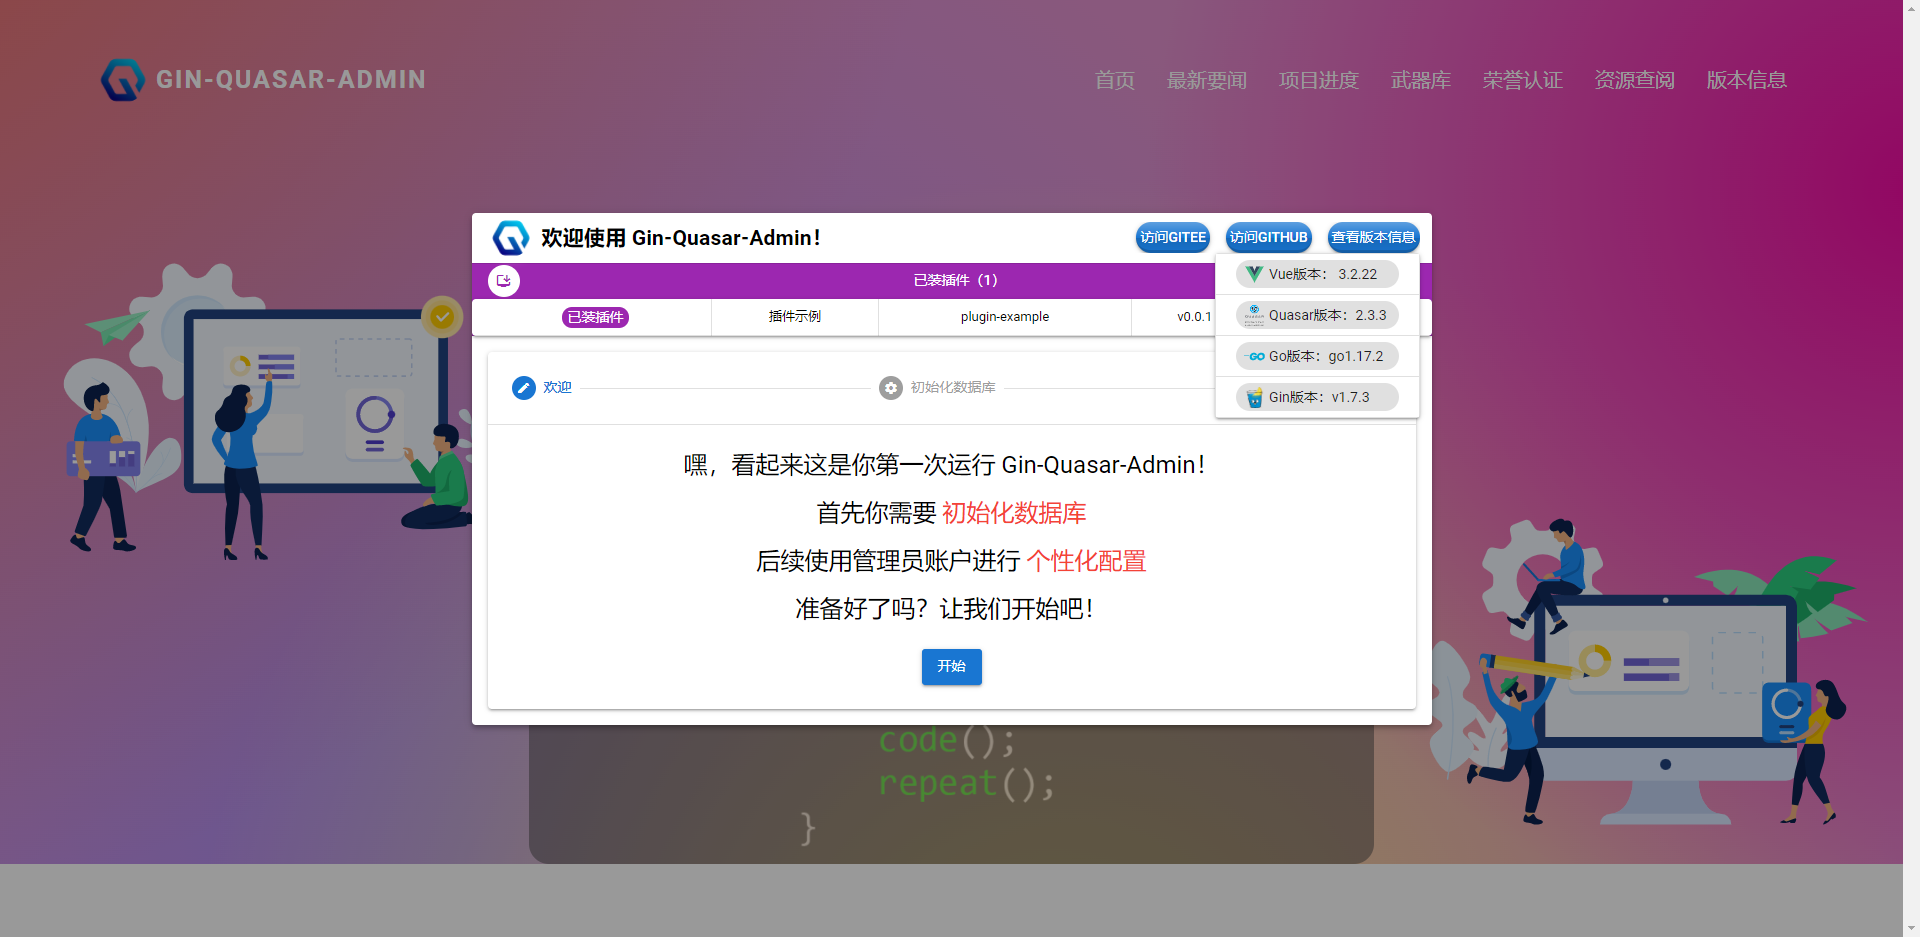
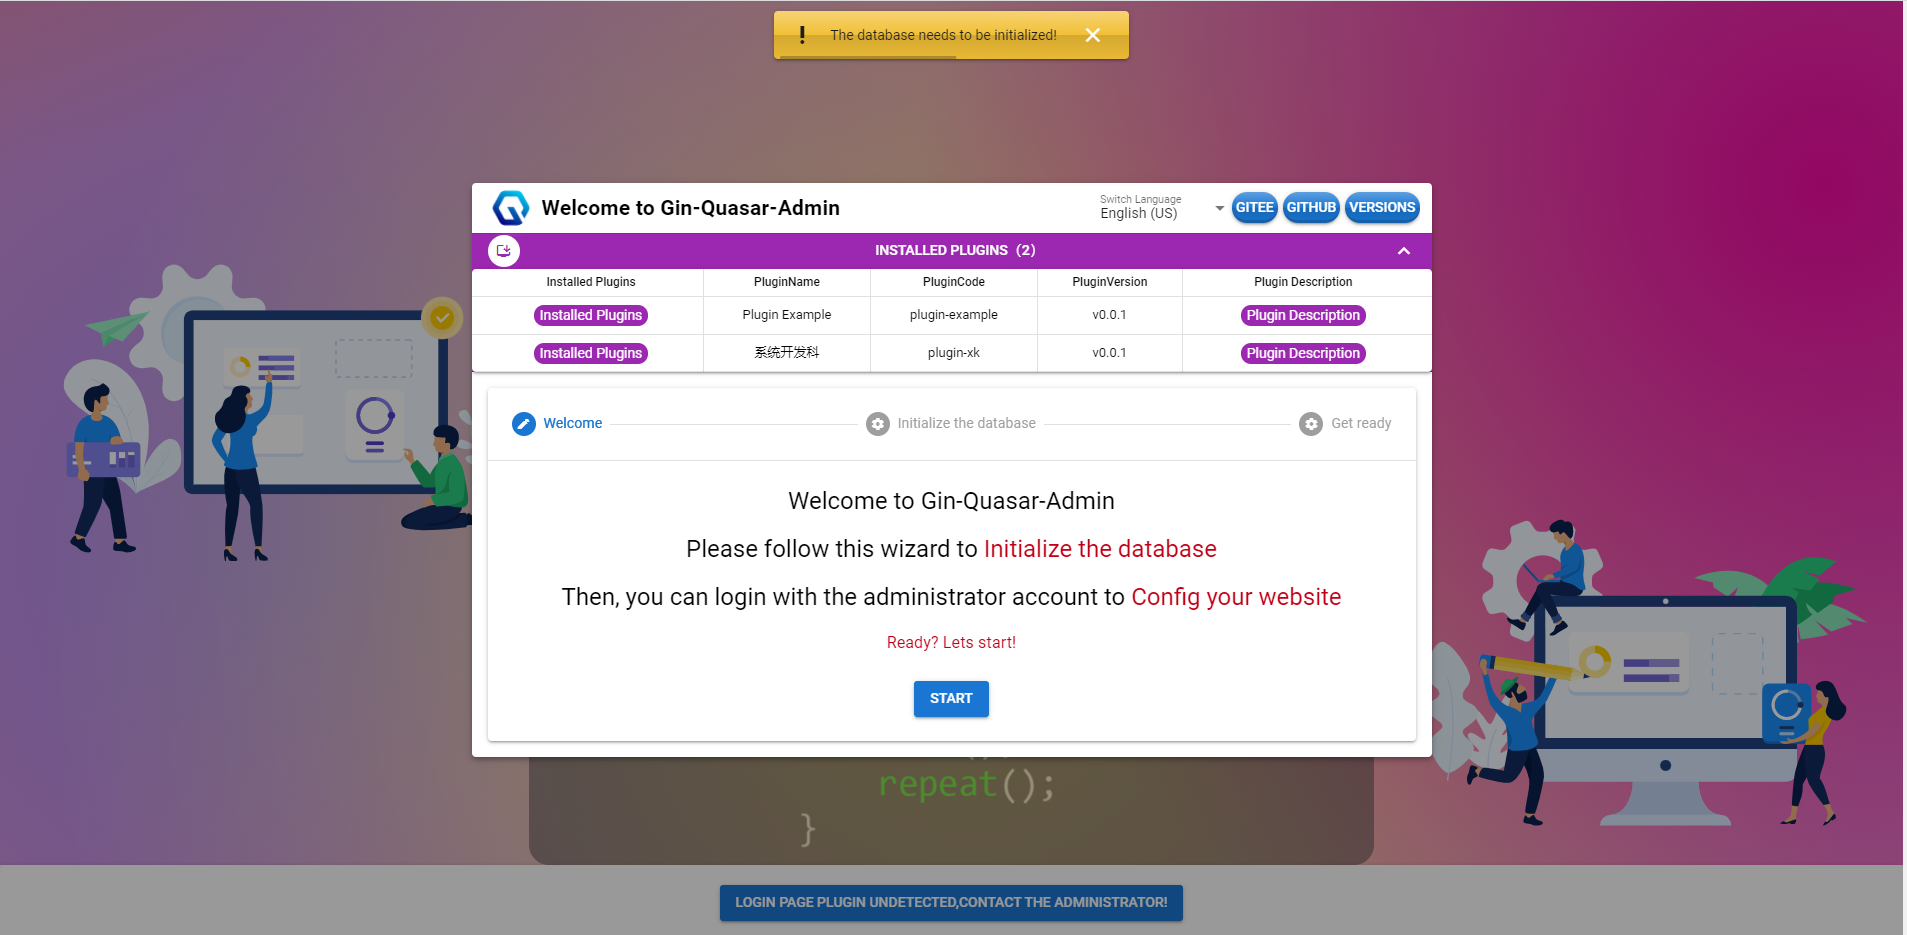
i18n in axios

Changed region(s): [[0.0, 0.0, 1.0, 1.0], [0.4022, 0.0, 0.9282, 0.093]]

diff --git a/GQA-FRONTEND/src/boot/axios.js b/GQA-FRONTEND/src/boot/axios.js
@@ -1,7 +1,8 @@
 import { boot } from 'quasar/wrappers'
 import axios from 'axios'
 import { Notify, Dialog } from 'quasar'
-// import { GetToken } from 'src/utils/cookies'
+import { createI18n } from 'vue-i18n'
+import messages from 'src/i18n'
 
 // Be careful when using SSR for cross-request state pollution
 // due to creating a Singleton instance here;
@@ -18,6 +19,13 @@ const api = axios.create({
 
 
 export default boot(({ app, router, store }) => {
+    const i18n = createI18n({
+        locale: store.getters['user/language'],
+        fallbackLocale: 'zh-CN',
+        messages,
+        silentTranslationWarn: true,
+        silentFallbackWarn: true
+    })
     // 请求拦截
     api.interceptors.request.use(res => {
         const token = store.getters['user/token']
@@ -44,13 +52,13 @@ export default boot(({ app, router, store }) => {
                 case 0:
                     if (responseData.data && responseData.data.reload) {
                         Dialog.create({
-                            title: this.$t('AxiosCantIdentifyTitle'),
-                            message: response.data.message || this.$t('AxiosCantIdentifyMessage'),
+                            title: i18n.global.t('AxiosCantIdentifyTitle'),
+                            message: response.data.message || i18n.global.t('AxiosCantIdentifyMessage'),
                             persistent: true,
                             ok: {
                                 push: true,
                                 color: 'negative',
-                                label: this.$t('AxiosCantIdentifyOkLabel')
+                                label: i18n.global.t('AxiosCantIdentifyOkLabel')
                             },
                         }).onOk(() => {
                             store.dispatch('user/HandleLogout')
@@ -59,7 +67,7 @@ export default boot(({ app, router, store }) => {
                     } else {
                         Notify.create({
                             type: 'negative',
-                            message: response.data.message || this.$t('AxiosErrorOperation'),
+                            message: response.data.message || i18n.global.t('AxiosErrorOperation'),
                         })
                         return response.data
                     }
@@ -71,13 +79,13 @@ export default boot(({ app, router, store }) => {
         // 500的情况
         if (error + '' === 'Error: Request failed with status code 500') {
             Dialog.create({
-                title: this.$t('AxiosErrorAbnormalTitle'),
-                message: this.$t('AxiosErrorAbnormalMessage'),
+                title: i18n.global.t('AxiosErrorAbnormalTitle'),
+                message: i18n.global.t('AxiosErrorAbnormalMessage'),
                 persistent: true,
                 ok: {
                     push: true,
                     color: 'negative',
-                    label: this.$t('AxiosErrorAbnormalOkLabel')
+                    label: i18n.global.t('AxiosErrorAbnormalOkLabel')
                 },
             }).onOk(() => {
                 store.dispatch('user/HandleLogout')
@@ -88,7 +96,7 @@ export default boot(({ app, router, store }) => {
         if (error + '' === 'Error: timeout of 40000ms exceeded') {
             Notify.create({
                 type: 'negative',
-                message: this.$t('AxiosErrorTimeout')
+                message: i18n.global.t('AxiosErrorTimeout')
             })
         }
         // 网络错误情况，比如后台没有对应的接口
@@ -98,7 +106,7 @@ export default boot(({ app, router, store }) => {
             console.log('请求地址不存在 [' + error.response.request.responseURL + ']')
             Notify.create({
                 type: 'negative',
-                message: this.$t('AxiosErrorNoNetwork', { error: error.response.request.responseURL }),
+                message: i18n.global.t('AxiosErrorNoNetwork', { error: error.response.request.responseURL }),
             })
         }
         return Promise.reject(error)

diff --git a/GQA-FRONTEND/src/components/GqaPluginList/index.vue b/GQA-FRONTEND/src/components/GqaPluginList/index.vue
@@ -59,26 +59,26 @@ export default {
         rows() {
             return this.$q.localStorage.getItem('gqa-pluginList')
         },
-    },
-    data() {
-        return {
-            columns: this.showChoose
-                ? [
-                      { name: 'first', align: 'center', label: this.$t('InstalledPlugins'), field: 'first' },
-                      { name: 'PluginName', align: 'center', label: this.$t('PluginName'), field: 'PluginName' },
-                      { name: 'PluginCode', align: 'center', label: this.$t('PluginCode'), field: 'PluginCode' },
-                      { name: 'PluginVersion', align: 'center', label: this.$t('PluginVersion'), field: 'PluginVersion' },
-                      { name: 'remark', align: 'center', label: this.$t('PluginDescription'), field: 'remark' },
-                      { name: 'actions', align: 'center', label: this.$t('PluginChoose'), field: 'actions' },
-                  ]
-                : [
-                      { name: 'first', align: 'center', label: this.$t('InstalledPlugins'), field: 'first' },
-                      { name: 'PluginName', align: 'center', label: this.$t('PluginName'), field: 'PluginName' },
-                      { name: 'PluginCode', align: 'center', label: this.$t('PluginCode'), field: 'PluginCode' },
-                      { name: 'PluginVersion', align: 'center', label: this.$t('PluginVersion'), field: 'PluginVersion' },
-                      { name: 'remark', align: 'center', label: this.$t('PluginDescription'), field: 'remark' },
-                  ],
-        }
+        columns() {
+            if (this.showChoose) {
+                return [
+                    { name: 'first', align: 'center', label: this.$t('InstalledPlugins'), field: 'first' },
+                    { name: 'PluginName', align: 'center', label: this.$t('PluginName'), field: 'PluginName' },
+                    { name: 'PluginCode', align: 'center', label: this.$t('PluginCode'), field: 'PluginCode' },
+                    { name: 'PluginVersion', align: 'center', label: this.$t('PluginVersion'), field: 'PluginVersion' },
+                    { name: 'remark', align: 'center', label: this.$t('PluginDescription'), field: 'remark' },
+                    { name: 'actions', align: 'center', label: this.$t('PluginChoose'), field: 'actions' },
+                ]
+            } else {
+                return [
+                    { name: 'first', align: 'center', label: this.$t('InstalledPlugins'), field: 'first' },
+                    { name: 'PluginName', align: 'center', label: this.$t('PluginName'), field: 'PluginName' },
+                    { name: 'PluginCode', align: 'center', label: this.$t('PluginCode'), field: 'PluginCode' },
+                    { name: 'PluginVersion', align: 'center', label: this.$t('PluginVersion'), field: 'PluginVersion' },
+                    { name: 'remark', align: 'center', label: this.$t('PluginDescription'), field: 'remark' },
+                ]
+            }
+        },
     },
     methods: {
         choosePluginLoginLayout(code) {

diff --git a/GQA-FRONTEND/src/i18n/en-US/index.js b/GQA-FRONTEND/src/i18n/en-US/index.js
@@ -23,8 +23,10 @@ export default {
     New: 'New',
     Old: 'Old',
     SwitchLanguage: 'Switch Language',
+    DbNeedInit: 'The database needs to be initialized!',
+    DbInitSuccess: 'System initialization succeeded. Please login!',
     // Base
-    Welcome: 'Welcome,',
+    Welcome: 'Welcome',
     WelcomeTo: 'Welcome to',
     Username: 'Username',
     Password: 'Password',
@@ -124,12 +126,12 @@ export default {
     LoginLayoutWizardInitDBFormPasswordRule: 'Please enter the database password',
     LoginLayoutWizardInitDBFormSchema: 'Databae name',
     LoginLayoutWizardInitDBFormSchemaRule: 'Please enter the Database name',
-    LoginLayoutWizardInitDBSummaryDBUser: 'Database user:',
+    LoginLayoutWizardInitDBSummaryDBUser: 'Database User:',
     LoginLayoutWizardInitDBSummaryDBPassword: 'Password:',
     LoginLayoutWizardInitDBSummaryDBPasswordSave: 'Will be stored in the backend configuration',
-    LoginLayoutWizardInitDBSummaryDBHost: 'The system will build for you on Host:',
-    LoginLayoutWizardInitDBSummaryDBType: 'the',
-    LoginLayoutWizardInitDBSummaryDBName: 'Database: ',
+    LoginLayoutWizardInitDBSummaryDBHost: 'The system will build: Host:',
+    LoginLayoutWizardInitDBSummaryDBType: 'Type:',
+    LoginLayoutWizardInitDBSummaryDBName: 'Database:',
     LoginLayoutWizardInitDBAfterText1: 'The default administrator account of the website is admin / 123456. Please modify it as soon as possible',
     LoginLayoutWizardInitDBAfterText2: 'The selected plugin does not support the login page, please contact the administrator!',
     // Login

diff --git a/GQA-FRONTEND/src/layouts/LoginLayout/index.vue b/GQA-FRONTEND/src/layouts/LoginLayout/index.vue
@@ -270,7 +270,8 @@ export default {
                     if (res.data.needInit === true) {
                         this.$q.notify({
                             type: 'warning',
-                            message: res.message,
+                            // message: res.message,
+                            message: this.$t('DbNeedInit'),
                         })
                         this.initDbVisible = true
                     }
@@ -297,7 +298,7 @@ export default {
                                     this.$refs.stepper.next()
                                     this.$q.notify({
                                         type: 'positive',
-                                        message: res.message,
+                                        message: this.$t('DbInitSuccess'),
                                     })
                                     this.initDbVisible = false
                                     this.checkDbStatus = false

diff --git a/GQA-FRONTEND/src/i18n/zh-CN/index.js b/GQA-FRONTEND/src/i18n/zh-CN/index.js
@@ -23,6 +23,8 @@ export default {
     New: '新',
     Old: '旧',
     SwitchLanguage: '切换语言',
+    DbNeedInit: '数据库需要初始化！',
+    DbInitSuccess: '系统初始化成功，请登录！',
     // Base
     Welcome: '欢迎，',
     WelcomeTo: '欢迎使用',

diff --git a/GQA-FRONTEND/src/layouts/MainLayout/UserMenu.vue b/GQA-FRONTEND/src/layouts/MainLayout/UserMenu.vue
@@ -4,6 +4,7 @@
             <GqaAvatar loginUser size="26px" />
             <span style="margin-left:5px">
                 {{ $t('Welcome') }}
+                &nbsp;
                 <GqaShowName showMyName />
             </span>
         </template>

diff --git a/README.md b/README.md
@@ -15,7 +15,7 @@
 
 #### Gin-Quasar-Admin 使用 Go+Gin+Vue3+Quasar2 搭建，可以通过简单的配置快速形成自己的网站，并通过插件形式开发个性化逻辑。
 
-### 特色功能：
+### 主要功能：
 
 1. 动态配置网站浏览器标签页图标。
 2. 动态配置网站 主标题、次标题、网站描述等。
@@ -23,6 +23,7 @@
 4. 用户可以同时拥有多个角色。
 5. 角色授权菜单和api接口。
 6. 部门管理、字典管理、用户管理、菜单管理等。
+7. i18n。
 
 #### 项目在不断完善中，欢迎clone和fork试用。如果你感觉不错，麻烦给个小小的 Star 鼓励一下！
 
@@ -38,11 +39,19 @@ gitee：https://gitee.com/junvary/gin-quasar-admin
 
 <div align=center>
     <img src="https://github.com/Junvary/gin-quasar-admin/blob/dev/img/1.png" /><br/><br/>
+    <img src="https://s2.loli.net/2021/12/06/vNYn7UpcHOowdlV.png" /><br/><br/>
     <img src="https://github.com/Junvary/gin-quasar-admin/blob/dev/img/2.png" /><br/><br/>
+    <img src="https://s2.loli.net/2021/12/06/5lmnMOfixvhb3Q7.png" /><br/><br/>
     <img src="https://github.com/Junvary/gin-quasar-admin/blob/dev/img/3.png" /><br/><br/>
+    <img src="https://s2.loli.net/2021/12/06/BRKo4mLf1OQsDFP.png" /><br/><br/>
     <img src="https://github.com/Junvary/gin-quasar-admin/blob/dev/img/4.png" /><br/><br/>
+    <img src="https://s2.loli.net/2021/12/06/xeSPZN8q1lVLYgj.png" /><br/><br/>
     <img src="https://github.com/Junvary/gin-quasar-admin/blob/dev/img/5.png" /><br/><br/>
+    <img src="https://s2.loli.net/2021/12/06/IYxVW7PEmyRtM2J.png" /><br/><br/>
 </div>
+
+
+
 
 
 
